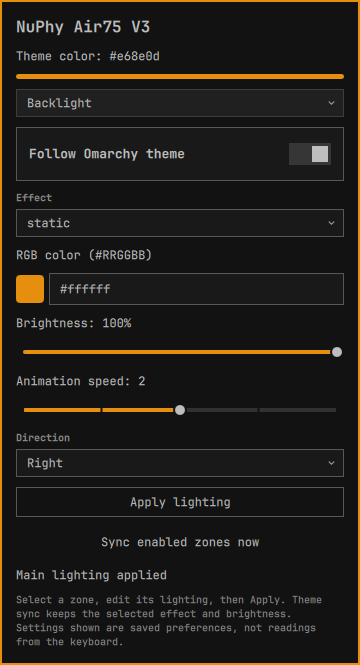
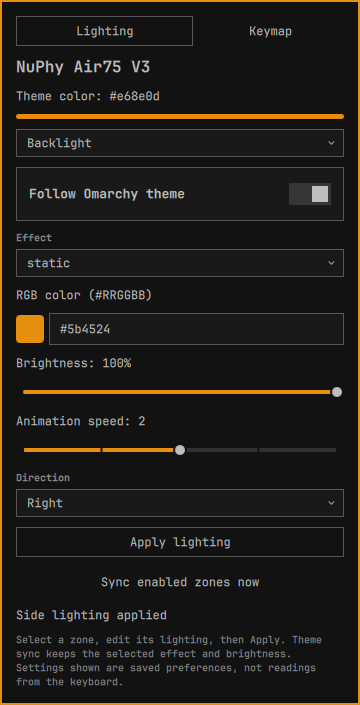
docs: refresh lighting and keymap screenshots

diff --git a/README.md b/README.md
@@ -5,7 +5,7 @@ keymap editing on NuPhy keyboards supported by `nuphyctl`.
 The title follows the connected keyboard’s reported product name; when the CLI
 cannot identify an automatic target, it falls back to “NuPhy keyboard”.
 
-![NuPhy lighting widget with Omarchy theme sync and RGB controls](screenshots/widget.png)
+![NuPhy Air75 V3 Lighting tab with Omarchy theme sync and RGB controls](screenshots/widget.png)
 
 - Independent backlight and side-light controls.
 - All 20 main effects and all five side-light effects exposed by nuphyctl.
@@ -158,6 +158,8 @@ omarchy-shell nuphy toggle
 
 ### Keymap editing
 
+![NuPhy Air75 V3 Keymap tab showing the physical keyboard layout and Windows FN4 assignments](screenshots/keymap.png)
+
 Open **Keymap** to read the keyboard's current and factory mappings. Readings
 are cached while the service is running; reopening the popup keeps them. Use
 **Refresh** after changing mappings with NuPhyIO or another tool. These readings
@@ -251,5 +253,5 @@ Release validation and remaining manual checks are recorded in
 
 ## License
 
-[MIT](LICENSE). The screenshot and marketplace preview are included under the
+[MIT](LICENSE). The screenshots and marketplace preview are included under the
 same license.
